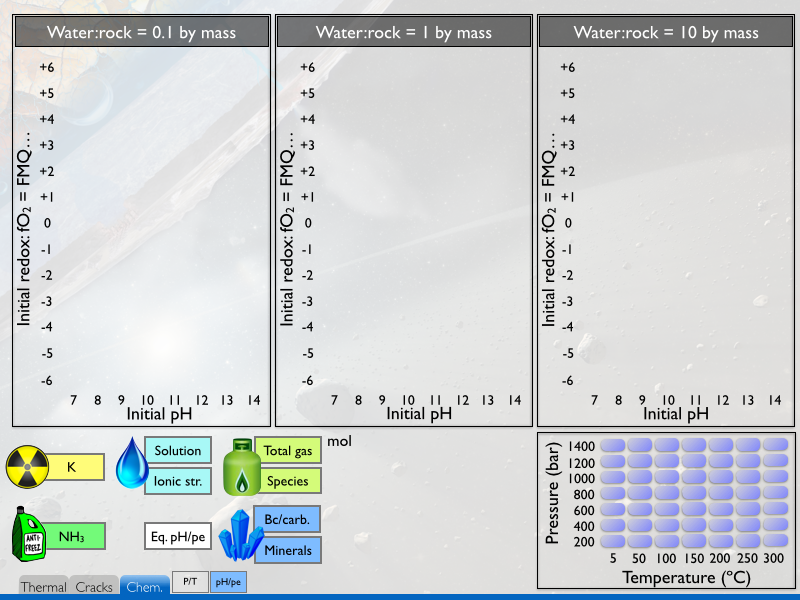
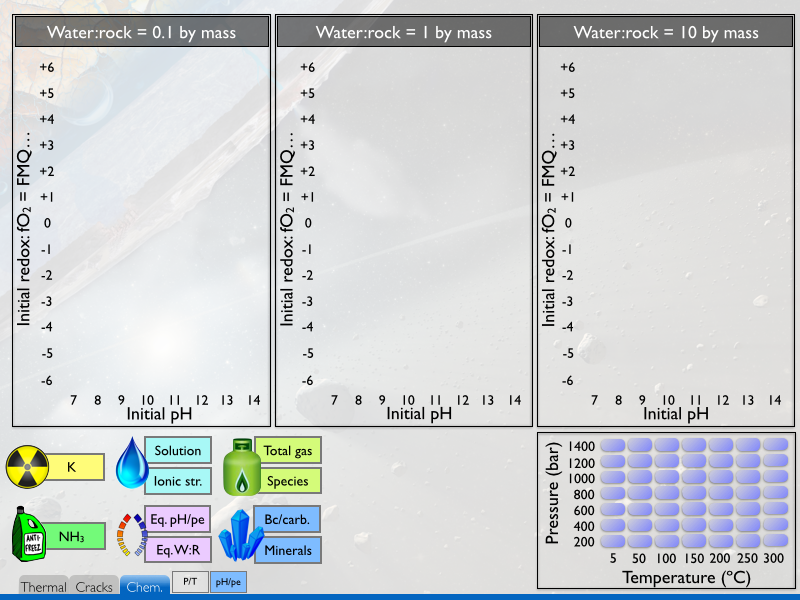
IcyDwarf v15.8.2
ParamExploration_plot() now displays final mass of water. This is a
proxy for final water:rock ratio, but not the exact value since the
final rock mass is not precisely known.

Also uploading DwarfEvo.sce, the Matlab routine to make color maps of
temperature vs. radius and time (see e.g. Neveu et al. 2015, JGR 120,
123-154, http://dx.doi.org/10.1002/2014JE004714).

Changed region(s): [[0.125, 0.84, 0.2812, 0.96], [0.4062, 0.72, 0.4375, 0.75]]

diff --git a/IcyDwarfPlot/WaterRock/ParamExploration_plot.h b/IcyDwarfPlot/WaterRock/ParamExploration_plot.h
@@ -38,7 +38,7 @@ int ParamExploration_plot (char path[1024],	int warnings, int msgout, SDL_Render
 		int chondrite, int comet) {
 
 	int transpose_data = 0;
-	int breakup_file = 1;
+	int breakup_file = 0;
 	int i = 0;
 	int j = 0;
 	int nspecies = 0;
@@ -159,6 +159,7 @@ int ParamExploration_plot (char path[1024],	int warnings, int msgout, SDL_Render
 	}
 
 	File2surf("Graphics/Transparent.png", &pies, path);
+	pie_radius = 13.0;
 
 	//-------------------------------------------------------------------
 	//                         Interactive display
@@ -231,7 +232,7 @@ int UpdateDisplaysParamExploration (SDL_Renderer* renderer, SDL_Texture* backgro
 	SDL_RenderClear(renderer);
 	ApplySurface(0, 0, background_tex, renderer, NULL);
 	ApplySurface(0, 0, pies_tex, renderer, NULL);
-	ApplySurface(358, 433, leg_tex[0], renderer, NULL);
+	ApplySurface(348, 433, leg_tex[0], renderer, NULL);
 
 	if (itopic == 1) R = 40;
 	if (itopic == 4 || itopic == 10) {
@@ -245,8 +246,11 @@ int UpdateDisplaysParamExploration (SDL_Renderer* renderer, SDL_Texture* backgro
 	if (itopic == 11) {
 		x = 340; y = 540;
 	}
+	if (itopic == 12) {
+		x = 305; y = 500;
+	}
 
-	if (itopic != 11) {
+	if (itopic < 11) {
 		for (i=0;i<nleg-1;i++) {
 			theta_legend = 2.0*M_PI/(double)nspecies*((double)i+0.5);
 			ApplySurface(x + R*cos(theta_legend), y + R*sin(theta_legend), leg_tex[i+1], renderer, NULL);
@@ -444,7 +448,8 @@ int handleClickParamExploration(SDL_Event e, int *itemp, int *ipressure, int *ip
 	else if (e.button.x >= 218 && e.button.x <= 321 && e.button.y >= 537 && e.button.y <= 563) (*itopic) = 8; // Mineral makeup
 	else if (e.button.x >= 115 && e.button.x <= 210 && e.button.y >= 437 && e.button.y <= 463) (*itopic) = 9; // Solution makeup
 	else if (e.button.x >= 115 && e.button.x <= 210 && e.button.y >= 468 && e.button.y <= 494) (*itopic) = 10; // Solution ionic strength
-	else if (e.button.x >= 145 && e.button.x <= 210 && e.button.y >= 523 && e.button.y <= 549) (*itopic) = 11; // Solution ionic strength
+	else if (e.button.x >= 145 && e.button.x <= 210 && e.button.y >= 506 && e.button.y <= 532) (*itopic) = 11; // Solution pH/pe
+	else if (e.button.x >= 145 && e.button.x <= 210 && e.button.y >= 537 && e.button.y <= 563) (*itopic) = 12; // Mass of H2O
 
 	return 0;
 }
@@ -515,14 +520,14 @@ int Angles (int itopic, SDL_Surface **pies, char *FontFile, int ntemp, int npres
 
 	if (itopic == 1) {
 		color[1] = gray; color[2] = purple; color[3] = yellow;
-		(*leg_tex)[0] = renderText("per mol K",FontFile, black, 16, renderer);
+		(*leg_tex)[0] = renderText("mol per mol K",FontFile, black, 16, renderer);
 		(*leg_tex)[1] = renderText("Leached",FontFile, black, 16, renderer);
 		(*leg_tex)[2] = renderText("Clays",FontFile, black, 16, renderer);
 		(*leg_tex)[3] = renderText("K-feldspar",FontFile, black, 16, renderer);
 	}
 	else if (itopic == 2) {
 		color[1] = green; color[2] = red; color[3] = orange; color[4] = yellow; color[5] = white; color[6] = aqua; color[7] = purple; color[8] = gray;
-		(*leg_tex)[0] = renderText("per mol N",FontFile, black, 16, renderer);
+		(*leg_tex)[0] = renderText("mol per mol N",FontFile, black, 16, renderer);
 		(*leg_tex)[1] = renderText("NH3(aq)",FontFile, black, 16, renderer);
 		(*leg_tex)[2] = renderText("musc/feldspar",FontFile, black, 16, renderer);
 		(*leg_tex)[3] = renderText("NH4-",FontFile, black, 16, renderer);
@@ -533,12 +538,12 @@ int Angles (int itopic, SDL_Surface **pies, char *FontFile, int ntemp, int npres
 		(*leg_tex)[8] = renderText("Other N(aq)",FontFile, black, 16, renderer);
 	}
 	else if (itopic == 4) {
-		(*leg_tex)[0] = renderText("gas per kg rock",FontFile, black, 16, renderer);
+		(*leg_tex)[0] = renderText("mol gas per kg rock",FontFile, black, 16, renderer);
 		(*leg_tex)[1] = renderText("1         10         100",FontFile, black, 16, renderer);
 	}
 	else if (itopic == 5) {
 		color[1] = black; color[2] = aqua; color[3] = yellow; color[4] = red; color[5] = white;
-		(*leg_tex)[0] = renderText("per mol gas",FontFile, black, 16, renderer);
+		(*leg_tex)[0] = renderText("mol per mol gas",FontFile, black, 16, renderer);
 		(*leg_tex)[1] = renderText("C2H6",FontFile, white, 16, renderer);
 		(*leg_tex)[2] = renderText("CO2",FontFile, black, 16, renderer);
 		(*leg_tex)[3] = renderText("N2",FontFile, black, 16, renderer);
@@ -547,7 +552,7 @@ int Angles (int itopic, SDL_Surface **pies, char *FontFile, int ntemp, int npres
 	}
 	else if (itopic == 6) {
 		color[1] = pink; color[2] = aqua; color[3] = purple; color[4] = white; color[5] = green;
-		(*leg_tex)[0] = renderText("per mol solids",FontFile, black, 16, renderer);
+		(*leg_tex)[0] = renderText("mol per mol solids",FontFile, black, 16, renderer);
 		(*leg_tex)[1] = renderText("Brucite",FontFile, black, 16, renderer);
 		(*leg_tex)[2] = renderText("Magnesite",FontFile, black, 16, renderer);
 		(*leg_tex)[3] = renderText("Hydromagnesite",FontFile, black, 16, renderer);
@@ -558,23 +563,24 @@ int Angles (int itopic, SDL_Surface **pies, char *FontFile, int ntemp, int npres
 		color[1] = gray; color[2] = light_green; color[3] = black; color[4] = cyan; color[5] = green; color[6] = purple;
 		color[7] = pink; color[8] = orange; color[9] = red; color[10] = white; color[11] = maroon; color[12] = aqua;
 		color[13] = gold; color[14] = yellow;
-		(*leg_tex)[0] = renderText("per mol solids",FontFile, black, 16, renderer);
-		(*leg_tex)[1] = renderText("Andr+Kato",FontFile, black, 16, renderer);
+		(*leg_tex)[0] = renderText("mol per mol solids",FontFile, black, 16, renderer);
 		if (idb == 3) {
+			(*leg_tex)[1] = renderText("Andr",FontFile, black, 16, renderer);
 			(*leg_tex)[2] = renderText("Atg",FontFile, black, 16, renderer);
 			(*leg_tex)[3] = renderText("C(s)",FontFile, white, 16, renderer);
 			(*leg_tex)[4] = renderText("Cronst",FontFile, black, 16, renderer);
 			(*leg_tex)[5] = renderText("Green",FontFile, black, 16, renderer);
-			(*leg_tex)[6] = renderText("Carb",FontFile, black, 16, renderer);
+			(*leg_tex)[6] = renderText("Zeo",FontFile, black, 16, renderer);
 			(*leg_tex)[10] = renderText("Oliv",FontFile, black, 16, renderer);
 			(*leg_tex)[11] = renderText("Px",FontFile, white, 16, renderer);
 		}
 		else {
+			(*leg_tex)[1] = renderText("AKCTD",FontFile, black, 16, renderer);
 			(*leg_tex)[2] = renderText("Talc",FontFile, black, 16, renderer);
 			(*leg_tex)[3] = renderText("Ni/Fe(O)",FontFile, white, 16, renderer);
 			(*leg_tex)[4] = renderText("Serp",FontFile, black, 16, renderer);
 			(*leg_tex)[5] = renderText("Chl",FontFile, black, 16, renderer);
-			(*leg_tex)[6] = renderText("Zeo",FontFile, black, 16, renderer);
+			(*leg_tex)[6] = renderText("Carb",FontFile, black, 16, renderer);
 			(*leg_tex)[10] = renderText("Ni",FontFile, black, 16, renderer);
 			(*leg_tex)[11] = renderText("Ol+Px",FontFile, white, 16, renderer);
 		}
@@ -588,7 +594,7 @@ int Angles (int itopic, SDL_Surface **pies, char *FontFile, int ntemp, int npres
 	else if (itopic == 9) {
 		color[1] = gray; color[2] = black; color[3] = cyan; color[4] = red; color[5] = pink; color[6] = orange; color[7] = green;
 		color[8] = white; color[9] = purple; color[10] = yellow; color[11] = aqua; color[12] = gold;
-		(*leg_tex)[0] = renderText("per mol solutes",FontFile, black, 16, renderer);
+		(*leg_tex)[0] = renderText("mol per mol solutes",FontFile, black, 16, renderer);
 		(*leg_tex)[1] = renderText("Al",FontFile, black, 16, renderer);
 		(*leg_tex)[2] = renderText("C",FontFile, white, 16, renderer);
 		(*leg_tex)[3] = renderText("Ca",FontFile, black, 16, renderer);
@@ -603,7 +609,7 @@ int Angles (int itopic, SDL_Surface **pies, char *FontFile, int ntemp, int npres
 		(*leg_tex)[12] = renderText("H",FontFile, black, 16, renderer);
 	}
 	else if (itopic == 10) {
-		(*leg_tex)[0] = renderText("per kg H2O",FontFile, black, 16, renderer);
+		(*leg_tex)[0] = renderText("mol per kg H2O",FontFile, black, 16, renderer);
 		(*leg_tex)[1] = renderText("1         10         100",FontFile, black, 16, renderer);
 	}
 	else if (itopic == 11) {
@@ -611,6 +617,10 @@ int Angles (int itopic, SDL_Surface **pies, char *FontFile, int ntemp, int npres
 		(*leg_tex)[2] = renderText("-6",FontFile, black, 16, renderer);
 		(*leg_tex)[3] = renderText("0",FontFile, black, 16, renderer);
 		(*leg_tex)[4] = renderText("6",FontFile, black, 16, renderer);
+	}
+	else if (itopic == 12) {
+		(*leg_tex)[0] = renderText("mass H2O for ~1 kg rock",FontFile, black, 16, renderer);
+		(*leg_tex)[1] = renderText("<0.01     0.1         1         >10",FontFile, black, 16, renderer);
 	}
 
 	if (itopic == 4) {
@@ -645,6 +655,24 @@ int Angles (int itopic, SDL_Surface **pies, char *FontFile, int ntemp, int npres
 		Pie(2.0*M_PI, 0.0, -2, 4, -2, 10.0-6.0, &(*pies), key, 0, 0);
 		Pie(2.0*M_PI, 0.0, -2, 4, 0, 10.0+0.0, &(*pies), key, 0, 0);
 		Pie(2.0*M_PI, 0.0, -2, 4, 2, 10.0+6.0, &(*pies), key, 0, 0);
+	}
+	else if (itopic == 12) {
+		key.r = (Uint8) (200.0*(1.0-0.5*(log(0.01)/log(10.0)+2.0)/3.0));
+		key.g = (Uint8) (100.0*(1.0+0.35*(log(0.01)/log(10.0)+2.0)/3.0));
+		key.b = (Uint8) (255.0*(log(0.01)/log(10.0)+2.0)/3.0);
+		Pie(2.0*M_PI, 0.0, -2, -1, 0, 17.0, &(*pies), key, 0, 0);
+		key.r = (Uint8) (200.0*(1.0-0.5*(log(0.1)/log(10.0)+2.0)/3.0));
+		key.g = (Uint8) (100.0*(1.0+0.35*(log(0.1)/log(10.0)+2.0)/3.0));
+		key.b = (Uint8) (255.0*(log(0.1)/log(10.0)+2.0)/3.0);
+		Pie(2.0*M_PI, 0.0, -2, 1, 0, 17.0, &(*pies), key, 0, 0);
+		key.r = (Uint8) (200.0*(1.0-0.5*(log(1.0)/log(10.0)+2.0)/3.0));
+		key.g = (Uint8) (100.0*(1.0+0.35*(log(1.0)/log(10.0)+2.0)/3.0));
+		key.b = (Uint8) (255.0*(log(1.0)/log(10.0)+2.0)/3.0);
+		Pie(2.0*M_PI, 0.0, -2, 3, 0, 17.0, &(*pies), key, 0, 0);
+		key.r = (Uint8) (200.0*(1.0-0.5*(log(10.0)/log(10.0)+2.0)/3.0));
+		key.g = (Uint8) (100.0*(1.0+0.35*(log(10.0)/log(10.0)+2.0)/3.0));
+		key.b = (Uint8) (255.0*(log(10.0)/log(10.0)+2.0)/3.0);
+		Pie(2.0*M_PI, 0.0, -2, 5, 0, 17.0, &(*pies), key, 0, 0);
 	}
 	else {
 		for (i=0;i<(*nspecies);i++) { // Legend pie
@@ -711,11 +739,11 @@ int Angles (int itopic, SDL_Surface **pies, char *FontFile, int ntemp, int npres
 								angle[5] = 0.999*2.0*M_PI*(simdata[isim][853]+simdata[isim][855]+simdata[isim][857])/total_Min; // Dolomite
 							}
 							else if (itopic == 8) {
-								angle[1] = 0.999*2.0*M_PI*(simdata[isim][581]+simdata[isim][1086])/total_Min; // Andr+Kato
+								angle[1] = 0.999*2.0*M_PI*(simdata[isim][581]+simdata[isim][1085]+simdata[isim][791]+simdata[isim][1585]+simdata[isim][849])/total_Min; // Andr+Kato+Corundum+Tremolite+Diopside
 								angle[2] = 0.999*2.0*M_PI*simdata[isim][1523]/total_Min; // Talc
 								angle[3] = 0.999*2.0*M_PI*(simdata[isim][915]+simdata[isim][927]+simdata[isim][1587])/total_Min; // Fe + FeO + Trevorite (NiFe2O4)
 								angle[4] = 0.999*2.0*M_PI*(simdata[isim][593]+simdata[isim][819]+simdata[isim][979])/total_Min; // Serpentine clays: atg + cronst + greenalite
-								angle[5] = 0.999*2.0*M_PI*(simdata[isim][727]+simdata[isim][729]+simdata[isim][835])/total_Min; // Chlorites clays: clinochlore-14A and 7A, daphnite
+								angle[5] = 0.999*2.0*M_PI*(simdata[isim][727]+simdata[isim][729]+simdata[isim][835])/total_Min; // Chlorites clays: clinochlore-14A and 7A, daphnite-14A
 
 								// !! ONLY FOR GRL PAPER: CARBONATES TOGETHER WITH OTHER MINERALS, IN PURPLE
 								angle[6] = 0.999*2.0*M_PI*simdata[isim][1135]/total_Min // Magnesite
@@ -770,6 +798,24 @@ int Angles (int itopic, SDL_Surface **pies, char *FontFile, int ntemp, int npres
 								if (simdata[isim][7]/14.0 > 1.0) key.g = 0;
 								else key.g = (int) ((1.0-(simdata[isim][7]/7.0-1.0))*255.0);
 								Pie(2.0*M_PI, 0.0, iWR, ipH, ipe, 10.0+simdata[isim][5]+simdata[isim][8]-simdata[isim][3], &(*pies), key, 0, 0); // log = natural logarithm ln
+							}
+							else if (itopic == 12) {
+								if (simdata[isim][11] < 0.01) {
+									key.r = 200;
+									key.g = 100;
+									key.b = 0;
+								}
+								else if (simdata[isim][11] > 10.0) {
+									key.r = 100;
+									key.g = 135;
+									key.b = 255;
+								}
+								else {
+									key.r = (Uint8) (200.0*(1.0-0.5*(log(simdata[isim][11])/log(10.0)+2.0)/3.0)); // log = natural logarithm ln
+									key.g = (Uint8) (100.0*(1.0+0.35*(log(simdata[isim][11])/log(10.0)+2.0)/3.0));
+									key.b = (Uint8) (255.0*(log(simdata[isim][11])/log(10.0)+2.0)/3.0);
+								}
+								Pie(2.0*M_PI, 0.0, iWR, ipH, ipe, pie_radius, &(*pies), key, 0, 0);
 							}
 							else {
 								for (i=0;i<(*nspecies);i++) {
@@ -964,11 +1010,11 @@ int Angles (int itopic, SDL_Surface **pies, char *FontFile, int ntemp, int npres
 							angle[5] = 0.999*2.0*M_PI*(simdata[isim][853]+simdata[isim][855]+simdata[isim][857])/total_Min; // Dolomite
 						}
 						else if (itopic == 8) {
-							angle[1] = 0.999*2.0*M_PI*(simdata[isim][581]+simdata[isim][1086])/total_Min; // Andr+Kato
+							angle[1] = 0.999*2.0*M_PI*(simdata[isim][581]+simdata[isim][1085]+simdata[isim][791]+simdata[isim][1585]+simdata[isim][849])/total_Min; // Andr+Kato+Corundum+Tremolite+Diopside
 							angle[2] = 0.999*2.0*M_PI*simdata[isim][1523]/total_Min; // Talc
 							angle[3] = 0.999*2.0*M_PI*(simdata[isim][915]+simdata[isim][927]+simdata[isim][1587])/total_Min; // Fe + FeO + Trevorite (NiFe2O4)
 							angle[4] = 0.999*2.0*M_PI*(simdata[isim][593]+simdata[isim][819]+simdata[isim][979])/total_Min; // Serpentine clays: atg + cronst + greenalite
-							angle[5] = 0.999*2.0*M_PI*(simdata[isim][727]+simdata[isim][729]+simdata[isim][835])/total_Min; // Chlorites clays: clinochlore-14A and 7A, daphnite
+							angle[5] = 0.999*2.0*M_PI*(simdata[isim][727]+simdata[isim][729]+simdata[isim][835])/total_Min; // Chlorites clays: clinochlore-14A and 7A, daphnite-14A
 
 							// !! ONLY FOR GRL PAPER: CARBONATES TOGETHER WITH OTHER MINERALS, IN PURPLE
 							angle[6] = 0.999*2.0*M_PI*simdata[isim][1135]/total_Min // Magnesite
@@ -1028,6 +1074,24 @@ int Angles (int itopic, SDL_Surface **pies, char *FontFile, int ntemp, int npres
 							if (simdata[isim][7]/14.0 > 1.0) key.g = 0;
 							else key.g = (int) ((1.0-(simdata[isim][7]/7.0-1.0))*255.0);
 							Pie(2.0*M_PI, 0.0, 0, itemp, ipressure, 10.0+simdata[isim][5]+simdata[isim][8]-simdata[isim][3], &(*pies), key, 0, 1); // log = natural logarithm ln
+						}
+						else if (itopic == 12) {
+							if (simdata[isim][11] < 0.01) {
+								key.r = 200;
+								key.g = 100;
+								key.b = 0;
+							}
+							else if (simdata[isim][11] > 10.0) {
+								key.r = 100;
+								key.g = 135;
+								key.b = 255;
+							}
+							else {
+								key.r = (Uint8) (200.0*(1.0-0.5*(log(simdata[isim][11])/log(10.0)+2.0)/3.0)); // log = natural logarithm ln
+								key.g = (Uint8) (100.0*(1.0+0.35*(log(simdata[isim][11])/log(10.0)+2.0)/3.0));
+								key.b = (Uint8) (255.0*(log(simdata[isim][11])/log(10.0)+2.0)/3.0);
+							}
+							Pie(2.0*M_PI, 0.0, 0, itemp, ipressure, pie_radius, &(*pies), key, 0, 1);
 						}
 						else {
 							for (i=0;i<(*nspecies);i++) {
